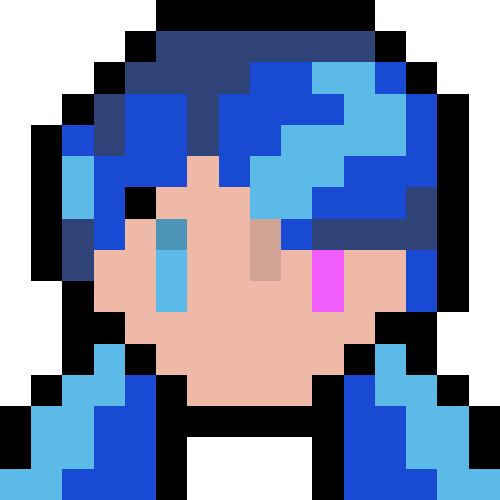
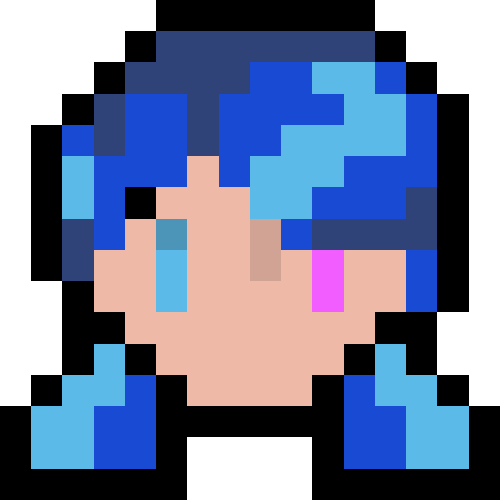
feat: add vayne, draven and gwen finished sprites

Changed region(s): [[0.69, 0.93, 1.0, 1.0], [0.0, 0.93, 0.33, 1.0]]

diff --git a/src/components/game/match-chat.tsx b/src/components/game/match-chat.tsx
@@ -28,13 +28,13 @@ export const MatchChat = ({ messages }: MatchChatProps) => {
         <p className="text-purple-light text-xl leading-none"> CHAT</p>
         <div
           ref={messagesRef}
-          className="mt-2 flex max-h-28 min-w-0 flex-1 flex-col gap-1 overflow-y-auto pr-1 [scrollbar-color:var(--color-purple-light)_var(--color-bg)] [scrollbar-width:thin]"
+          className="mt-2 flex max-h-28 min-w-0 flex-1 flex-col gap-1 overflow-y-auto pr-1 [scrollbar-color:var(--color-purple-light)_var(--color-bg)] scrollbar-thin"
         >
           {messages.map((message) => (
             <p
               key={message.id}
               className={cn(
-                "break-words text-lg leading-none",
+                "wrap-break-words text-lg leading-none",
                 message.tone === "system" && "text-muted-foreground",
                 message.tone === "success" && "text-green-400",
                 message.tone === "error" && "text-red-accent",